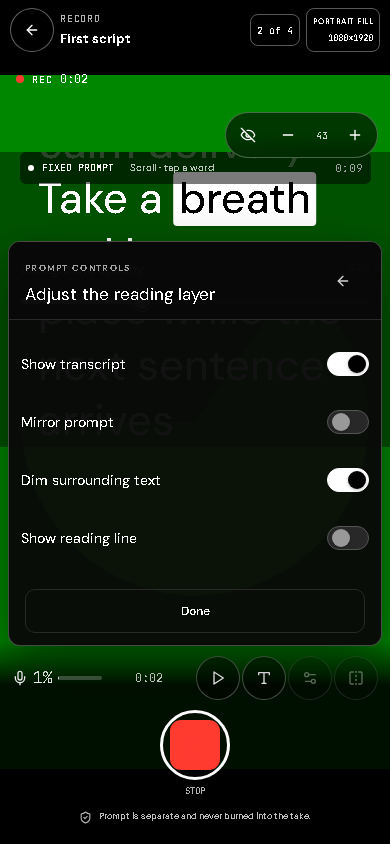
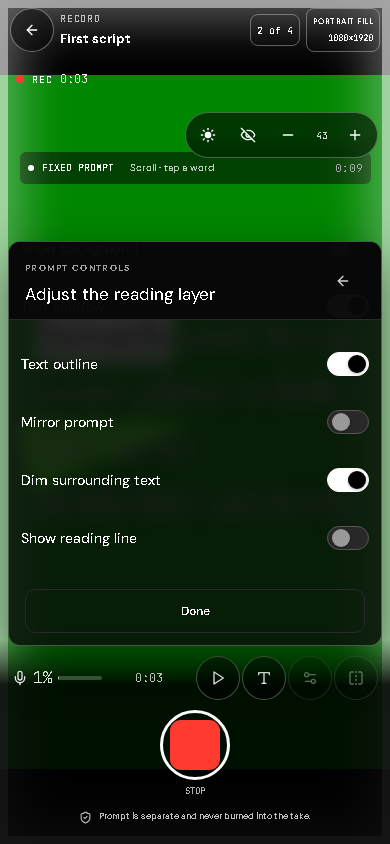
Expand live prompt controls and add selfie screen light

Changed region(s): [[0.0, 0.0, 1.0, 0.8318], [0.0615, 0.3697, 0.4615, 0.4621]]

diff --git a/src/components/teleprompter/PromptSettingsPanel.tsx b/src/components/teleprompter/PromptSettingsPanel.tsx
@@ -16,9 +16,9 @@ export interface PromptSettingsPanelProps {
 type PresetName = 'lens' | 'minimal' | 'large'
 
 const PRESETS: Record<PresetName, Partial<PromptSettings>> = {
-  lens: { fontSize: 38, lineHeight: 1.25, columnWidth: 86, windowHeight: 34, backgroundOpacity: .38, readingLine: 16, textAlign: 'left', showReadingLine: true, dimSurrounding: true },
-  minimal: { fontSize: 34, lineHeight: 1.25, columnWidth: 80, windowHeight: 30, backgroundOpacity: .24, readingLine: 18, textAlign: 'left', showReadingLine: true, dimSurrounding: true },
-  large: { fontSize: 52, lineHeight: 1.22, columnWidth: 92, windowHeight: 42, backgroundOpacity: .5, readingLine: 16, textAlign: 'left', showReadingLine: true, dimSurrounding: false },
+  lens: { fontSize: 38, lineHeight: 1.25, columnWidth: 86, windowHeight: 34, verticalPosition: 18, backgroundOpacity: .38, showBackground: true, textShadow: true, textOutline: false, readingLine: 16, textAlign: 'left', showReadingLine: true, dimSurrounding: true },
+  minimal: { fontSize: 34, lineHeight: 1.25, columnWidth: 80, windowHeight: 30, verticalPosition: 15, backgroundOpacity: .18, showBackground: false, textShadow: true, textOutline: false, readingLine: 18, textAlign: 'left', showReadingLine: true, dimSurrounding: true },
+  large: { fontSize: 56, lineHeight: 1.18, columnWidth: 92, windowHeight: 44, verticalPosition: 20, backgroundOpacity: .5, showBackground: true, textShadow: true, textOutline: false, readingLine: 16, textAlign: 'left', showReadingLine: true, dimSurrounding: false },
 }
 
 function presetFor(settings: PromptSettings): PresetName | '' {
@@ -31,20 +31,23 @@ function presetFor(settings: PromptSettings): PresetName | '' {
 
 function PromptControlsFields({ settings, onChange, compact }: { settings: PromptSettings; onChange: (patch: Partial<PromptSettings>) => void; compact: boolean }) {
   const fileRef = useRef<HTMLInputElement>(null)
+  const verticalPreset = settings.verticalPosition === 8 ? 'top' : settings.verticalPosition === 18 ? 'lens' : settings.verticalPosition === 34 ? 'middle' : settings.verticalPosition === 48 ? 'low' : ''
   return <>
     <div className="tp-prompt-control-grid">
       <div className="tp-prompt-font-field"><NativeSelect label="Font" value={settings.fontFamily} onChange={(event) => onChange({ fontFamily: event.target.value })}>
-        <option>DM Sans Variable</option><option>Barlow Condensed</option><option>JetBrains Mono Variable</option><option>Arial</option><option>Georgia</option><option>system-ui</option>{settings.fontFamily.startsWith('Creator Local ·') && <option>{settings.fontFamily}</option>}
+        <option>DM Sans Variable</option><option>Barlow Condensed</option><option>JetBrains Mono Variable</option><option>system-ui</option><option>Arial</option><option>Arial Black</option><option>Helvetica Neue</option><option>Avenir Next</option><option>Verdana</option><option>Trebuchet MS</option><option>Georgia</option><option>Times New Roman</option><option>Courier New</option><option>Impact</option>{settings.fontFamily.startsWith('Creator Local ·') && <option>{settings.fontFamily}</option>}
       </NativeSelect><Button variant="link" size="small" className="tp-font-upload-button" onClick={() => fileRef.current?.click()}>Load a font from this device</Button><input ref={fileRef} className="sr-only" type="file" accept=".woff,.woff2,.ttf,.otf,font/woff,font/woff2,font/ttf,font/otf" onChange={(event) => { const file = event.target.files?.[0]; event.target.value = ''; if (file) void installLocalFont(file).then((family) => onChange({ fontFamily: family })) }}/></div>
       <Slider label="Prompt window" value={settings.windowHeight ?? 34} min={20} max={65} step={1} display={`${settings.windowHeight ?? 34}% viewport`} onChange={(windowHeight) => onChange({ windowHeight })}/>
+      <Slider label="Vertical position" value={settings.verticalPosition ?? 18} min={8} max={58} step={1} display={`${settings.verticalPosition ?? 18}% from top`} onChange={(verticalPosition) => onChange({ verticalPosition })}/>
       <Slider label="Column width" value={settings.columnWidth} min={50} max={100} step={1} display={`${settings.columnWidth}%`} onChange={(columnWidth) => onChange({ columnWidth })}/>
       <Slider label="Horizontal position" value={settings.horizontalPosition ?? .5} min={0} max={1} step={.05} display={`${Math.round((settings.horizontalPosition ?? .5) * 100)}%`} onChange={(horizontalPosition) => onChange({ horizontalPosition })}/>
       <Slider label="Line height" value={settings.lineHeight} min={1.1} max={2} step={.05} display={settings.lineHeight.toFixed(2)} onChange={(lineHeight) => onChange({ lineHeight })}/>
       <Slider label="Letter spacing" value={settings.letterSpacing} min={-1} max={6} step={.1} display={`${settings.letterSpacing.toFixed(1)} px`} onChange={(letterSpacing) => onChange({ letterSpacing })}/>
     </div>
     <div className="tp-prompt-align-row"><span className="tp-control-label">Text alignment</span><Segmented label="Text alignment" value={settings.textAlign ?? 'left'} items={[{ value: 'left', label: 'Left' }, { value: 'center', label: 'Center' }]} onChange={(textAlign) => onChange({ textAlign })}/></div>
-    <div className="tp-prompt-colour-grid"><label className="tp-color-field"><span>Text colour</span><input type="color" value={settings.textColor} onChange={(event) => onChange({ textColor: event.target.value })}/></label><label className="tp-color-field"><span>Prompt background</span><input type="color" value={settings.backgroundColor} onChange={(event) => onChange({ backgroundColor: event.target.value })}/></label><Slider label="Background opacity" value={settings.backgroundOpacity} min={.08} max={1} step={.01} display={`${Math.round(settings.backgroundOpacity * 100)}%`} onChange={(backgroundOpacity) => onChange({ backgroundOpacity })}/></div>
-    <div className="tp-toggle-row tp-prompt-toggles"><Switch label="Show transcript" checked={settings.showPrompt !== false} onChange={(showPrompt) => onChange({ showPrompt })}/><Switch label="Mirror prompt" checked={settings.mirror} onChange={(mirror) => onChange({ mirror })}/><Switch label="Dim surrounding text" checked={settings.dimSurrounding} onChange={(dimSurrounding) => onChange({ dimSurrounding })}/><Switch label="Show reading line" checked={settings.showReadingLine !== false} onChange={(showReadingLine) => onChange({ showReadingLine })}/></div>
+    <div className="tp-prompt-align-row"><span className="tp-control-label">Screen position</span><Segmented label="Screen position" value={verticalPreset} items={[{ value: 'top', label: 'Top' }, { value: 'lens', label: 'Lens' }, { value: 'middle', label: 'Middle' }, { value: 'low', label: 'Low' }]} onChange={(position) => onChange({ verticalPosition: position === 'top' ? 8 : position === 'lens' ? 18 : position === 'middle' ? 34 : 48 })}/></div>
+    <div className="tp-prompt-colour-grid"><label className="tp-color-field"><span>Text colour</span><input type="color" value={settings.textColor} onChange={(event) => onChange({ textColor: event.target.value })}/></label><label className="tp-color-field"><span>Prompt background</span><input type="color" value={settings.backgroundColor} disabled={settings.showBackground === false} onChange={(event) => onChange({ backgroundColor: event.target.value })}/></label><Slider label="Background opacity" value={settings.backgroundOpacity} min={0} max={1} step={.01} display={`${Math.round(settings.backgroundOpacity * 100)}%`} disabled={settings.showBackground === false} onChange={(backgroundOpacity) => onChange({ backgroundOpacity })}/><Slider label="Background blur" value={settings.backgroundBlur ?? 0} min={0} max={24} step={1} display={`${settings.backgroundBlur ?? 0}px`} disabled={settings.showBackground === false} onChange={(backgroundBlur) => onChange({ backgroundBlur })}/></div>
+    <div className="tp-toggle-row tp-prompt-toggles"><Switch label="Show transcript" checked={settings.showPrompt !== false} onChange={(showPrompt) => onChange({ showPrompt })}/><Switch label="Show background" checked={settings.showBackground !== false} onChange={(showBackground) => onChange({ showBackground })}/><Switch label="Text shadow" checked={settings.textShadow !== false} onChange={(textShadow) => onChange({ textShadow })}/><Switch label="Text outline" checked={settings.textOutline === true} onChange={(textOutline) => onChange({ textOutline })}/><Switch label="Mirror prompt" checked={settings.mirror} onChange={(mirror) => onChange({ mirror })}/><Switch label="Dim surrounding text" checked={settings.dimSurrounding} onChange={(dimSurrounding) => onChange({ dimSurrounding })}/><Switch label="Show reading line" checked={settings.showReadingLine !== false} onChange={(showReadingLine) => onChange({ showReadingLine })}/></div>
     {!compact && <details className="tp-advanced"><summary>Additional timing and layout <span className="mono">CUSTOMIZE</span></summary><div className="tp-setting-grid"><Slider label="Side margins" value={settings.margin} min={0} max={24} step={1} display={`${settings.margin}%`} onChange={(margin) => onChange({ margin })}/><Slider label="Left gutter" value={settings.marginLeft ?? settings.margin} min={0} max={24} step={1} display={`${settings.marginLeft ?? settings.margin}%`} onChange={(marginLeft) => onChange({ marginLeft })}/><Slider label="Right gutter" value={settings.marginRight ?? settings.margin} min={0} max={24} step={1} display={`${settings.marginRight ?? settings.margin}%`} onChange={(marginRight) => onChange({ marginRight })}/><Slider label="Comma pause" value={settings.commaPause} min={0} max={.8} step={.02} display={`${settings.commaPause.toFixed(2)}s`} onChange={(commaPause) => onChange({ commaPause })}/><Slider label="Period pause" value={settings.periodPause} min={0} max={1.5} step={.05} display={`${settings.periodPause.toFixed(2)}s`} onChange={(periodPause) => onChange({ periodPause })}/><Slider label="Paragraph pause" value={settings.paragraphPause} min={0} max={2.5} step={.05} display={`${settings.paragraphPause.toFixed(2)}s`} onChange={(paragraphPause) => onChange({ paragraphPause })}/></div><div className="tp-toggle-row"><Switch label="Density-based line timing" checked={settings.lineTiming} onChange={(lineTiming) => onChange({ lineTiming })}/><Switch label="Honour punctuation pauses" checked={settings.punctuation} onChange={(punctuation) => onChange({ punctuation })}/><Switch label="Include cue pauses" checked={settings.autoPause} onChange={(autoPause) => onChange({ autoPause })}/><Switch label="High contrast" checked={settings.highContrast} onChange={(highContrast) => onChange({ highContrast })}/></div></details>}
   </>
 }

diff --git a/src/styles/teleprompter.css b/src/styles/teleprompter.css
@@ -277,7 +277,7 @@
 .tp-reader-compact .tp-reader-head { position: absolute; top: 19%; right: 8%; left: 8%; z-index: 5; min-height: 32px; padding: 0 8px; border: 0; border-radius: 6px; background: rgba(0,0,0,.52); }
 .tp-reader-compact .tp-reading-stage { position: absolute; top: 24%; right: 6%; left: 6%; height: 34%; min-height: 0; border: 0; border-radius: 0; background: transparent; box-shadow: none; }
 .tp-reader-compact .tp-reading-stage::before { display: none; }
-.tp-reader-compact .tp-script-column { width: calc(100% - 24px); margin: 0 12px; font-size: clamp(28px, var(--tp-size, 38px), 84px); line-height: max(1.25, var(--tp-line, 1.35)); }
+.tp-reader-compact .tp-script-column { width: calc(100% - 24px); margin: 0 12px; font-size: clamp(20px, var(--tp-size, 38px), 112px); line-height: max(1.25, var(--tp-line, 1.35)); }
 .tp-reader-compact .tp-anchor-spacer { height: 28%; min-height: 35px; }
 .tp-reader-compact .tp-anchor-bottom { height: 28%; min-height: 35px; }
 .tp-reader-compact .tp-reader-controls { position: absolute; right: 7%; bottom: 118px; left: 7%; z-index: 5; padding: 8px; border: 0; border-radius: 9px; background: rgba(0,0,0,.7); }
@@ -371,7 +371,7 @@
   .tp-flow-actions .button-primary { min-width: 0; }
   .tp-record-reader-overlay .tp-reader-compact .tp-reader-head { top: 18%; }
   .tp-reader-compact .tp-reading-stage { top: 23%; right: 5%; left: 5%; height: 35%; }
-  .tp-reader-compact .tp-script-column { font-size: clamp(28px, var(--tp-size, 38px), 84px); line-height: max(1.25, var(--tp-line, 1.35)); }
+  .tp-reader-compact .tp-script-column { font-size: clamp(20px, var(--tp-size, 38px), 112px); line-height: max(1.25, var(--tp-line, 1.35)); }
   .tp-reader-compact .tp-reader-controls { right: 5%; bottom: 116px; left: 5%; }
   .tp-history-drawer { width: 100%; }
   .tp-takes-head { padding: 18px 16px; }
@@ -427,7 +427,7 @@
   .tp-settings-panel { padding-right: 14px; padding-left: 14px; }
   .tp-flow-actions { gap: 8px; }
   .tp-flow-actions .button { padding-right: 11px; padding-left: 11px; font-size: 11px; }
-  .tp-reader-compact .tp-script-column { font-size: clamp(28px, var(--tp-size, 38px), 84px); line-height: max(1.25, var(--tp-line, 1.35)); }
+  .tp-reader-compact .tp-script-column { font-size: clamp(20px, var(--tp-size, 38px), 112px); line-height: max(1.25, var(--tp-line, 1.35)); }
 }
 
 @media (max-width: 820px) and (orientation: landscape) {
@@ -438,7 +438,7 @@
   .tp-script-panel .origin-textarea { min-height: 170px; }
   .tp-record-reader-overlay .tp-reader-compact .tp-reading-stage { top: 16%; right: 24%; left: 24%; height: 42%; }
   .tp-record-reader-overlay .tp-reader-compact .tp-reader-head { top: 10%; right: 24%; left: 24%; }
-  .tp-reader-compact .tp-script-column { font-size: clamp(28px, var(--tp-size, 38px), 84px); line-height: max(1.25, var(--tp-line, 1.35)); }
+  .tp-reader-compact .tp-script-column { font-size: clamp(20px, var(--tp-size, 38px), 112px); line-height: max(1.25, var(--tp-line, 1.35)); }
   .tp-reader-compact .tp-reader-controls { right: 25%; bottom: 82px; left: 25%; }
   .tp-record-bottom-bar { padding-top: 9px !important; padding-bottom: max(9px, env(safe-area-inset-bottom)) !important; gap: 6px !important; }
   .tp-record-bottom-meta { min-height: 30px; }
@@ -467,6 +467,7 @@
 .tp-camera-canvas { position: absolute; inset: 0; z-index: 1; display: block; width: 100%; height: 100%; object-fit: contain; background: #000; }
 .tp-camera-canvas.is-front-mirrored { transform: scaleX(-1); }
 .tp-record-surface-scrim { z-index: 2; background: linear-gradient(180deg, rgba(0,0,0,.68), transparent 22%, transparent 68%, rgba(0,0,0,.82)); pointer-events: none; }
+.tp-screen-light { --tp-screen-light-color: 255,255,255; --tp-screen-light-strength: .72; position: absolute; inset: 0; z-index: 4; opacity: var(--tp-screen-light-strength); pointer-events: none; box-shadow: inset 0 0 0 8px rgba(var(--tp-screen-light-color),.78), inset 0 0 54px 16px rgba(var(--tp-screen-light-color),.56); }
 .tp-record-topbar { position: absolute; top: 0; right: 0; left: 0; z-index: 6; display: flex; align-items: center; gap: 10px; padding: max(8px, env(safe-area-inset-top)) 16px 8px; color: #fff; }
 .tp-record-top-back { width: 44px; height: 44px; border: 1px solid rgba(255,255,255,.38); border-radius: 50%; background: rgba(0,0,0,.48); color: #fff; }
 .tp-record-title-block { display: grid; min-width: 0; flex: 1; gap: 3px; }
@@ -512,7 +513,7 @@
 .tp-record-layer-note { display: flex; align-items: center; justify-content: center; gap: 7px; min-height: 18px; color: rgba(255,255,255,.75); font-size: 10px; }
 .tp-recovery-action { display: flex; justify-content: center; }
 
-.tp-prompt-sheet { position: absolute; right: 12px; bottom: max(196px, calc(178px + env(safe-area-inset-bottom))); left: 12px; z-index: 12; max-height: 48dvh; overflow: auto; overscroll-behavior: contain; border: 1px solid rgba(255,255,255,.26); border-radius: 12px; background: rgba(8,8,8,.96); box-shadow: 0 18px 50px rgba(0,0,0,.48); }
+.tp-prompt-sheet { position: absolute; right: 12px; bottom: max(196px, calc(178px + env(safe-area-inset-bottom))); left: 12px; z-index: 12; max-height: 48dvh; overflow: auto; overscroll-behavior: contain; border: 1px solid rgba(255,255,255,.26); border-radius: 12px; background: rgba(8,8,8,.84); box-shadow: 0 18px 50px rgba(0,0,0,.48); backdrop-filter: blur(9px); }
 .tp-prompt-sheet-head { position: sticky; top: 0; z-index: 2; display: flex; align-items: center; justify-content: space-between; gap: 12px; padding: 12px 16px; border-bottom: 1px solid rgba(255,255,255,.14); background: rgba(8,8,8,.98); }
 .tp-prompt-sheet-head h2 { margin-top: 4px; font-size: 17px; }
 .tp-prompt-sheet-head .button-icon { width: 44px; min-height: 44px; }
@@ -540,10 +541,10 @@
 .tp-prompt-sheet .tp-advanced { margin-top: 8px; }
 .tp-prompt-sheet-done { position: sticky; right: 16px; bottom: 8px; left: 16px; width: calc(100% - 32px); margin: 8px 16px 12px; }
 
-.tp-record-reader-overlay .tp-reader-compact .tp-reading-stage { top: calc(18dvh + env(safe-area-inset-top)); right: 0; left: 0; height: var(--tp-window-height, 34dvh); min-height: 0; border: 0; border-radius: 0; background: transparent; box-shadow: none; }
+.tp-record-reader-overlay .tp-reader-compact .tp-reading-stage { top: calc(var(--tp-window-top, 18dvh) + env(safe-area-inset-top)); right: 0; left: 0; height: var(--tp-window-height, 34dvh); min-height: 0; border: 0; border-radius: 0; box-shadow: none; }
 .tp-record-reader-overlay .tp-reader-compact .tp-reading-stage { pointer-events: auto; touch-action: pan-y; }
 .tp-reader-compact .tp-script-scroll { overflow: hidden auto; overscroll-behavior: contain; -webkit-overflow-scrolling: touch; touch-action: pan-y; scrollbar-width: thin; }
-.tp-record-reader-overlay .tp-reader-compact .tp-script-column { width: var(--tp-column, 86%); margin-left: var(--tp-margin-left, 7%); margin-right: var(--tp-margin-right, 7%); padding: 5px 8px; border-radius: 8px; background: transparent; text-align: var(--tp-align, left); transform: translateX(var(--tp-offset, 0)) scaleX(var(--tp-mirror, 1)); transform-origin: center; font-size: clamp(28px, var(--tp-size, 38px), 84px); line-height: max(1.25, var(--tp-line, 1.25)); }
+.tp-record-reader-overlay .tp-reader-compact .tp-script-column { width: var(--tp-column, 86%); margin-left: var(--tp-margin-left, 7%); margin-right: var(--tp-margin-right, 7%); padding: 5px 8px; border-radius: 8px; background: transparent; text-align: var(--tp-align, left); transform: translateX(var(--tp-offset, 0)) scaleX(var(--tp-mirror, 1)); transform-origin: center; font-size: clamp(20px, var(--tp-size, 38px), 112px); line-height: max(1.25, var(--tp-line, 1.25)); }
 .tp-record-reader-overlay .tp-reader-compact .tp-token { pointer-events: auto; }
 .tp-reader-compact .tp-token.tp-active-line { color: #fff; text-decoration: none; }
 .tp-reader-compact .tp-token.tp-current { padding: 0 .12em; border-radius: 4px; background: #fff; color: #000; }
@@ -562,7 +563,7 @@
   .tp-prompt-align-row { grid-template-columns: 1fr; gap: 4px; }
   .tp-prompt-align-row .segmented { width: 100%; }
   .tp-prompt-colour-grid { gap: 0 12px; }
-  .tp-reader-compact .tp-script-column { font-size: clamp(28px, var(--tp-size, 38px), 84px); line-height: max(1.25, var(--tp-line, 1.25)); }
+  .tp-reader-compact .tp-script-column { font-size: clamp(20px, var(--tp-size, 38px), 112px); line-height: max(1.25, var(--tp-line, 1.25)); }
 }
 
 @media (max-width: 480px) {
@@ -586,16 +587,16 @@
   .tp-prompt-control-grid { grid-template-columns: 1fr; }
   .tp-prompt-colour-grid { grid-template-columns: 1fr 1fr; }
   .tp-prompt-toggles { grid-template-columns: 1fr; }
-  .tp-reader-compact .tp-reading-stage { top: calc(18dvh + env(safe-area-inset-top)); height: var(--tp-window-height, 34dvh); }
-  .tp-reader-compact .tp-script-column { font-size: clamp(28px, var(--tp-size, 38px), 84px); line-height: max(1.25, var(--tp-line, 1.25)); }
+  .tp-reader-compact .tp-reading-stage { top: calc(var(--tp-window-top, 18dvh) + env(safe-area-inset-top)); height: var(--tp-window-height, 34dvh); }
+  .tp-reader-compact .tp-script-column { font-size: clamp(20px, var(--tp-size, 38px), 112px); line-height: max(1.25, var(--tp-line, 1.25)); }
 }
 
 @media (max-width: 820px) and (orientation: landscape) {
   .tp-record-topbar { padding-top: max(5px, env(safe-area-inset-top)); padding-bottom: 5px; }
   .tp-record-title-block strong { max-width: 180px; }
   .tp-prompt-sheet { right: 18%; bottom: 116px; left: 18%; max-height: 48dvh; }
-  .tp-reader-compact .tp-reading-stage { top: 15dvh; height: var(--tp-window-height, 34dvh); }
-  .tp-reader-compact .tp-script-column { font-size: clamp(28px, var(--tp-size, 38px), 84px); }
+  .tp-reader-compact .tp-reading-stage { top: var(--tp-window-top, 15dvh); height: var(--tp-window-height, 34dvh); }
+  .tp-reader-compact .tp-script-column { font-size: clamp(20px, var(--tp-size, 38px), 112px); }
   .tp-record-bottom-bar { gap: 5px; padding-top: 6px; padding-bottom: max(6px, env(safe-area-inset-bottom)); }
   .tp-record-shutter { width: 58px; height: 58px; }
 }

diff --git a/src/components/teleprompter/RecordPanel.tsx b/src/components/teleprompter/RecordPanel.tsx
@@ -1,5 +1,5 @@
-import { useEffect, useMemo, useRef, useState, type ReactNode } from 'react'
-import { ArrowLeft, Camera, Eye, EyeOff, FlipHorizontal, LockKeyhole, Mic, Minus, Pause, Play, Plus, RefreshCw, Settings2, ShieldCheck, Square, Type, Video, Volume2, Zap } from 'lucide-react'
+import { useEffect, useMemo, useRef, useState, type CSSProperties, type ReactNode } from 'react'
+import { ArrowLeft, Camera, Eye, EyeOff, FlipHorizontal, LockKeyhole, Mic, Minus, Pause, Play, Plus, RefreshCw, Settings2, ShieldCheck, Square, Sun, Type, Video, Volume2, Zap } from 'lucide-react'
 import type { CaptureSettings, PromptSettings, RecorderSnapshot, ScriptDocument, TakeRecord } from '../../types/recording'
 import { drawCaptureFrame, measureDrawnFrame, previewTransform, type DrawnFrameDimensions } from '../../features/recording/capture'
 import { Alert, Badge, BottomSheet, Button, IconButton, NativeSelect, Slider, Switch } from '../ui/primitives'
@@ -81,6 +81,7 @@ export function RecordPanel({ snapshot, settings, script, reader, onBack, onSett
   const resolution = useMemo(() => formatResolution(settings), [settings])
   const framingMode = settings.framingMode ?? 'fill'
   const rotation = settings.rotation ?? 'auto'
+  const screenLightColor = settings.screenLightTone === 'warm' ? '255, 221, 178' : settings.screenLightTone === 'cool' ? '214, 235, 255' : '255, 255, 255'
 
   useEffect(() => {
     const video = videoRef.current
@@ -173,6 +174,7 @@ export function RecordPanel({ snapshot, settings, script, reader, onBack, onSett
       {snapshot.stream ? <><video ref={videoRef} muted playsInline autoPlay onLoadedMetadata={(event) => setVideoSize({ width: event.currentTarget.videoWidth, height: event.currentTarget.videoHeight })} className="tp-camera-video tp-preview-source" aria-label="Camera preview"/><canvas ref={canvasRef} className={`tp-camera-canvas ${settings.facingMode === 'user' ? 'is-front-mirrored' : ''}`} aria-label="Camera preview image"/></> : <div className="tp-no-camera" style={{ position: 'absolute', inset: 0, display: 'grid', placeContent: 'center', justifyItems: 'center', gap: 14, padding: 24, color: '#fff', textAlign: 'center' }}><Camera size={34}/><strong>{isOpening ? 'Opening camera…' : 'Camera preview unavailable'}</strong><span>Allow camera and microphone access to record a take.</span><Button variant="outline" onClick={onOpen} disabled={isOpening}>{isOpening ? 'Opening inputs…' : 'Open camera & mic'}</Button></div>}
     </div>
     <div className="tp-record-surface-scrim" aria-hidden="true"/>
+    {settings.screenLight && settings.facingMode === 'user' && <div className="tp-screen-light" aria-hidden="true" style={{ '--tp-screen-light-color': screenLightColor, '--tp-screen-light-strength': settings.screenLightIntensity ?? .72 } as CSSProperties}/>}
 
     <header className="tp-record-topbar">
       <IconButton className="tp-record-top-back" label="Back to script" onClick={onBack} disabled={!onBack || isSaving}><ArrowLeft size={20}/></IconButton>
@@ -183,11 +185,12 @@ export function RecordPanel({ snapshot, settings, script, reader, onBack, onSett
     </header>
 
     {reader && <div className="tp-record-reader-overlay" style={{ position: 'absolute', inset: 0, zIndex: 2, pointerEvents: 'none' }}>{reader}</div>}
-    <div className="tp-record-prompt-tools" role="group" aria-label="Transcript display controls">
+    <div className="tp-record-prompt-tools" role="group" aria-label="On-screen recording controls">
+      <IconButton label={settings.screenLight ? 'Turn screen light off' : 'Turn screen light on'} onClick={() => onSettingsChange({ screenLight: !settings.screenLight })}><Sun size={18} fill={settings.screenLight ? 'currentColor' : 'none'}/></IconButton>
       <IconButton label={script.settings.showPrompt === false ? 'Show transcript' : 'Hide transcript'} onClick={() => onPromptSettingsChange({ showPrompt: script.settings.showPrompt === false })}>{script.settings.showPrompt === false ? <Eye size={18}/> : <EyeOff size={18}/>}</IconButton>
-      <IconButton label="Make transcript smaller" onClick={() => onPromptSettingsChange({ fontSize: Math.max(28, script.settings.fontSize - 4) })} disabled={script.settings.fontSize <= 28}><Minus size={17}/></IconButton>
+      <IconButton label="Make transcript smaller" onClick={() => onPromptSettingsChange({ fontSize: Math.max(20, script.settings.fontSize - 4) })} disabled={script.settings.fontSize <= 20}><Minus size={17}/></IconButton>
       <span className="mono" aria-live="polite">{script.settings.fontSize}</span>
-      <IconButton label="Make transcript larger" onClick={() => onPromptSettingsChange({ fontSize: Math.min(84, script.settings.fontSize + 4) })} disabled={script.settings.fontSize >= 84}><Plus size={17}/></IconButton>
+      <IconButton label="Make transcript larger" onClick={() => onPromptSettingsChange({ fontSize: Math.min(112, script.settings.fontSize + 4) })} disabled={script.settings.fontSize >= 112}><Plus size={17}/></IconButton>
     </div>
     <div className="tp-record-status" role="status" aria-live="polite"><span className={`tp-record-state-dot ${isRecording ? 'is-recording' : ''} ${isSaving ? 'is-saving' : ''}`} aria-hidden="true"/><span className="mono">{isRecording ? 'REC' : isSaving ? 'SAVING…' : isFailure ? 'RECOVERY' : unavailable ? 'READY TO OPEN' : 'READY'}</span>{isRecording && <span className="mono">{elapsedLabel(elapsed)}</span>}</div>
     {snapshot.error && <div className="tp-record-alert"><Alert title="Recording needs attention" variant="destructive">{snapshot.error}</Alert></div>}
@@ -227,6 +230,9 @@ export function RecordPanel({ snapshot, settings, script, reader, onBack, onSett
         </div>
         <p className="origin-field-help">Portrait fill preserves the phone camera’s full view, detects its displayed orientation, and writes an upright 9:16 recording without asking the browser to pre-crop it.</p>
         <Switch label="Monitor audio" description="Send a quiet feed to headphones." checked={settings.monitorAudio} disabled={cameraControlsDisabled} onChange={(monitorAudio) => onSettingsChange({ monitorAudio })}/>
+        <Switch label="Screen selfie light" description="Use the display border to light your face. It is never added to the video." checked={settings.screenLight} onChange={(screenLight) => onSettingsChange({ screenLight })}/>
+        <Slider label="Screen light brightness" value={settings.screenLightIntensity ?? .72} min={.2} max={1} step={.02} display={`${Math.round((settings.screenLightIntensity ?? .72) * 100)}%`} disabled={!settings.screenLight} onChange={(screenLightIntensity) => onSettingsChange({ screenLightIntensity })}/>
+        <NativeSelect label="Screen light tone" value={settings.screenLightTone ?? 'neutral'} disabled={!settings.screenLight} onChange={(event) => onSettingsChange({ screenLightTone: event.target.value as CaptureSettings['screenLightTone'] })}><option value="neutral">Neutral white</option><option value="warm">Warm</option><option value="cool">Cool</option></NativeSelect>
         <div className="tp-preflight-mic"><Button variant="outline" size="small" onClick={testMic} disabled={unavailable || cameraControlsDisabled || actionBusy}>{micTesting ? 'Listening…' : 'Test microphone'}</Button><span aria-hidden="true"><i style={{ width: `${Math.round(snapshot.level * 100)}%` }}/></span><Volume2 size={15}/></div>
         <details className="tp-preflight-advanced"><summary><RefreshCw size={14}/> Supported camera controls</summary><HardwareControls capabilities={snapshot.capabilities} settings={settings} onSettingsChange={onSettingsChange} disabled={cameraControlsDisabled}/></details>
         <Button variant="ghost" onClick={onRequestStorage} disabled={isSaving}><LockKeyhole size={15}/> Request persistent storage</Button>

diff --git a/teleprompter-e2e/phone-flow-navigation.spec.ts b/teleprompter-e2e/phone-flow-navigation.spec.ts
@@ -71,6 +71,11 @@ test.describe('phone first Script to Record to Review flow', () => {
     await promptWords.first().scrollIntoViewIfNeeded();
     await promptWords.first().click();
     await expect(promptWords.first()).toHaveAttribute('aria-current', 'true');
+    await expect(page.locator('.tp-screen-light')).toBeVisible();
+    await page.getByRole('button', { name: 'Turn screen light off', exact: true }).click();
+    await expect(page.locator('.tp-screen-light')).toHaveCount(0);
+    await page.getByRole('button', { name: 'Turn screen light on', exact: true }).click();
+    await expect(page.locator('.tp-screen-light')).toBeVisible();
     const initialPromptSize = await page.locator('.tp-reader-compact .tp-reading-stage').evaluate((stage) => stage.style.getPropertyValue('--tp-size'));
     await page.getByRole('button', { name: 'Make transcript larger', exact: true }).click();
     await expect.poll(() => page.locator('.tp-reader-compact .tp-reading-stage').evaluate((stage) => stage.style.getPropertyValue('--tp-size'))).not.toBe(initialPromptSize);
@@ -116,10 +121,13 @@ test.describe('phone first Script to Record to Review flow', () => {
     await page.getByRole('button', { name: 'Open prompt controls', exact: true }).click();
     const promptDialog = page.getByRole('dialog', { name: 'Prompt controls', exact: true });
     await expect(promptDialog).toBeVisible();
-    for (const label of ['Speed', 'Text size', 'Reading line', 'Prompt window', 'Column width', 'Horizontal position', 'Line height', 'Background opacity']) await expect(promptDialog.getByRole('slider', { name: label, exact: true })).toBeVisible();
+    for (const label of ['Speed', 'Text size', 'Reading line', 'Prompt window', 'Vertical position', 'Column width', 'Horizontal position', 'Line height', 'Background opacity', 'Background blur']) await expect(promptDialog.getByRole('slider', { name: label, exact: true })).toBeVisible();
     await expect(promptDialog.getByText('Text alignment', { exact: true })).toBeVisible();
     await expect(promptDialog.getByRole('switch', { name: 'Dim surrounding text', exact: true })).toBeVisible();
     await expect(promptDialog.getByRole('switch', { name: 'Show transcript', exact: true })).toBeVisible();
+    await expect(promptDialog.getByRole('switch', { name: 'Show background', exact: true })).toBeVisible();
+    await expect(promptDialog.getByRole('switch', { name: 'Text shadow', exact: true })).toBeVisible();
+    await expect(promptDialog.getByRole('switch', { name: 'Text outline', exact: true })).toBeVisible();
     await expect(promptDialog.getByRole('switch', { name: 'Show reading line', exact: true })).toBeVisible();
     const promptGeometryBefore = await page.evaluate(() => {
       const stage = document.querySelector('.tp-reader-compact .tp-reading-stage') as HTMLElement | null;
@@ -135,6 +143,15 @@ test.describe('phone first Script to Record to Review flow', () => {
     await promptDialog.getByRole('slider', { name: 'Prompt window', exact: true }).press('ArrowRight');
     await promptDialog.getByRole('slider', { name: 'Column width', exact: true }).press('ArrowRight');
     await promptDialog.getByRole('slider', { name: 'Horizontal position', exact: true }).press('ArrowRight');
+    const topBefore = await page.locator('.tp-reader-compact .tp-reading-stage').evaluate((stage) => stage.style.getPropertyValue('--tp-window-top'));
+    await promptDialog.getByRole('button', { name: 'Middle', exact: true }).click();
+    await expect.poll(() => page.locator('.tp-reader-compact .tp-reading-stage').evaluate((stage) => stage.style.getPropertyValue('--tp-window-top'))).not.toBe(topBefore);
+    await promptDialog.getByRole('combobox', { name: 'Font', exact: true }).selectOption({ label: 'Georgia' });
+    await expect.poll(() => page.locator('.tp-reader-compact .tp-reading-stage').evaluate((stage) => getComputedStyle(stage).fontFamily)).toContain('Georgia');
+    await promptDialog.getByRole('switch', { name: 'Show background', exact: true }).click();
+    await expect.poll(() => page.locator('.tp-reader-compact .tp-reading-stage').evaluate((stage) => getComputedStyle(stage).backgroundColor)).toBe('rgba(0, 0, 0, 0)');
+    await promptDialog.getByRole('switch', { name: 'Text outline', exact: true }).click();
+    await expect.poll(() => page.locator('.tp-reader-compact .tp-reading-stage').evaluate((stage) => getComputedStyle(stage).webkitTextStrokeWidth)).toBe('1px');
     await expect.poll(() => page.evaluate(() => {
       const stage = document.querySelector('.tp-reader-compact .tp-reading-stage') as HTMLElement | null;
       const column = document.querySelector('.tp-reader-compact .tp-script-column') as HTMLElement | null;

diff --git a/src/features/recording/defaults.ts b/src/features/recording/defaults.ts
@@ -19,6 +19,7 @@ export const defaultPromptSettings: PromptSettings = {
   marginRight: 7,
   horizontalPosition: 0.5,
   windowHeight: 34,
+  verticalPosition: 18,
   textAlign: 'left',
   showPrompt: true,
   showReadingLine: true,
@@ -26,6 +27,10 @@ export const defaultPromptSettings: PromptSettings = {
   textColor: '#ffffff',
   backgroundColor: '#000000',
   backgroundOpacity: 0.38,
+  showBackground: true,
+  backgroundBlur: 0,
+  textShadow: true,
+  textOutline: false,
   mirror: false,
   highContrast: true,
   dimSurrounding: true,
@@ -47,6 +52,9 @@ export const defaultCaptureSettings: CaptureSettings = {
   fps: 30,
   portrait: true,
   monitorAudio: false,
+  screenLight: true,
+  screenLightIntensity: 0.72,
+  screenLightTone: 'neutral',
   framingMode: 'fill',
   framingVersion: 2,
   rotation: 'auto',
@@ -54,8 +62,10 @@ export const defaultCaptureSettings: CaptureSettings = {
 };
 
 export function clonePromptSettings(settings: PromptSettings = defaultPromptSettings): PromptSettings {
-  const cloned = structuredClone(settings) as PromptSettings & { windowHeight?: unknown; textAlign?: unknown; showPrompt?: unknown; showReadingLine?: unknown };
+  const cloned = structuredClone(settings) as PromptSettings & { windowHeight?: unknown; verticalPosition?: unknown; textAlign?: unknown; showPrompt?: unknown; showReadingLine?: unknown; showBackground?: unknown; backgroundBlur?: unknown; textShadow?: unknown; textOutline?: unknown };
   const rawWindowHeight = typeof cloned.windowHeight === 'number' && Number.isFinite(cloned.windowHeight) ? cloned.windowHeight : defaultPromptSettings.windowHeight;
+  const rawVerticalPosition = typeof cloned.verticalPosition === 'number' && Number.isFinite(cloned.verticalPosition) ? cloned.verticalPosition : defaultPromptSettings.verticalPosition;
+  const rawBackgroundBlur = typeof cloned.backgroundBlur === 'number' && Number.isFinite(cloned.backgroundBlur) ? cloned.backgroundBlur : defaultPromptSettings.backgroundBlur;
   const isLegacyDefault = cloned.fontSize === 48
     && cloned.lineHeight === 1.35
     && cloned.columnWidth === 78
@@ -94,9 +104,14 @@ export function clonePromptSettings(settings: PromptSettings = defaultPromptSett
       backgroundColor: defaultPromptSettings.backgroundColor,
     } : {}),
     windowHeight: isLegacyDefault ? defaultPromptSettings.windowHeight : Math.max(20, Math.min(65, rawWindowHeight)),
+    verticalPosition: Math.max(8, Math.min(58, rawVerticalPosition)),
     textAlign: isLegacyDefault ? defaultPromptSettings.textAlign : cloned.textAlign === 'center' ? 'center' : 'left',
     showPrompt: typeof cloned.showPrompt === 'boolean' ? cloned.showPrompt : defaultPromptSettings.showPrompt,
     showReadingLine: isLegacyDefault ? defaultPromptSettings.showReadingLine : typeof cloned.showReadingLine === 'boolean' ? cloned.showReadingLine : defaultPromptSettings.showReadingLine,
+    showBackground: typeof cloned.showBackground === 'boolean' ? cloned.showBackground : defaultPromptSettings.showBackground,
+    backgroundBlur: Math.max(0, Math.min(24, rawBackgroundBlur)),
+    textShadow: typeof cloned.textShadow === 'boolean' ? cloned.textShadow : defaultPromptSettings.textShadow,
+    textOutline: typeof cloned.textOutline === 'boolean' ? cloned.textOutline : defaultPromptSettings.textOutline,
   };
 }
 
@@ -118,12 +133,19 @@ export function cloneCaptureSettings(settings: CaptureSettings = defaultCaptureS
     ? capture.framingMode === 'fit' ? 'fit' : 'fill'
     : 'fill';
   const rotation = capture.rotation === 0 || capture.rotation === 90 || capture.rotation === 270 ? capture.rotation : 'auto';
+  const screenLightIntensity = typeof capture.screenLightIntensity === 'number' && Number.isFinite(capture.screenLightIntensity)
+    ? Math.max(0.2, Math.min(1, capture.screenLightIntensity))
+    : defaultCaptureSettings.screenLightIntensity;
+  const screenLightTone = capture.screenLightTone === 'cool' || capture.screenLightTone === 'warm' ? capture.screenLightTone : 'neutral';
   return {
     ...defaultCaptureSettings,
     ...capture,
     framingMode,
     framingVersion: 2,
     rotation,
+    screenLight: typeof capture.screenLight === 'boolean' ? capture.screenLight : defaultCaptureSettings.screenLight,
+    screenLightIntensity,
+    screenLightTone,
     controls: { ...defaultCaptureSettings.controls, ...(capture.controls ?? {}) },
   };
 }

diff --git a/src/components/teleprompter/PromptReader.tsx b/src/components/teleprompter/PromptReader.tsx
@@ -153,7 +153,7 @@ export function PromptReader({ script, settings, onCursorChange, compact = false
   const wordsSpoken = parsed.spokenTokens.slice(0, cursor).length
   const modeLabel = settings.mode === 'timed' ? 'TIMED PROMPT' : settings.mode === 'manual' ? 'MANUAL PROMPT' : 'FIXED PROMPT'
   const playLabel = playing ? 'Pause prompt' : settings.mode === 'manual' ? 'Start manual read' : 'Play prompt'
-  const backgroundColor = promptBackground(settings.backgroundColor, settings.backgroundOpacity)
+  const backgroundColor = settings.showBackground === false ? 'transparent' : promptBackground(settings.backgroundColor, settings.backgroundOpacity)
   const readerStyle: CSSProperties = {
     '--tp-text': settings.textColor,
     '--tp-bg': settings.backgroundColor,
@@ -170,12 +170,17 @@ export function PromptReader({ script, settings, onCursorChange, compact = false
     '--tp-reading-line': `${settings.readingLine}%`,
     '--tp-opacity': settings.dimSurrounding ? '.34' : '1',
     '--tp-window-height': `${Math.max(20, Math.min(65, settings.windowHeight ?? 34))}dvh`,
+    '--tp-window-top': `${Math.max(8, Math.min(58, settings.verticalPosition ?? 18))}dvh`,
     '--tp-align': settings.textAlign ?? 'left',
     '--tp-mirror': settings.mirror ? -1 : 1,
     backgroundColor,
     fontFamily: settings.fontFamily,
     textAlign: settings.textAlign ?? 'left',
     fontWeight: settings.bold ? 650 : 450,
+    backdropFilter: settings.showBackground === false || !settings.backgroundBlur ? undefined : `blur(${settings.backgroundBlur}px)`,
+    WebkitBackdropFilter: settings.showBackground === false || !settings.backgroundBlur ? undefined : `blur(${settings.backgroundBlur}px)`,
+    textShadow: settings.textShadow === false ? 'none' : '0 2px 8px rgba(0,0,0,.92), 0 1px 2px rgba(0,0,0,.95)',
+    WebkitTextStroke: settings.textOutline ? '1px rgba(0,0,0,.85)' : undefined,
   } as CSSProperties
 
   return <div className={`tp-reader-wrap ${compact ? 'tp-reader-compact' : ''} ${hideControls ? 'tp-reader-no-controls' : ''} ${compact && settings.showPrompt === false ? 'tp-reader-hidden' : ''}`} aria-hidden={compact && settings.showPrompt === false ? 'true' : undefined}>
@@ -225,7 +230,7 @@ export function PromptReader({ script, settings, onCursorChange, compact = false
 export function PromptQuickControls({ settings, onChange }: { settings: PromptSettings; onChange: (patch: Partial<PromptSettings>) => void }) {
   return <div className="tp-quick-controls">
     <Slider label="Speed" value={settings.wpm} min={50} max={260} step={5} display={`${settings.wpm} WPM`} onChange={(wpm) => onChange({ wpm })}/>
-    <Slider label="Text size" value={settings.fontSize} min={28} max={84} step={1} display={`${settings.fontSize}px`} onChange={(fontSize) => onChange({ fontSize })}/>
+    <Slider label="Text size" value={settings.fontSize} min={20} max={112} step={1} display={`${settings.fontSize}px`} onChange={(fontSize) => onChange({ fontSize })}/>
     <Slider label="Reading line" value={settings.readingLine} min={10} max={65} step={1} display={`${settings.readingLine}%`} onChange={(readingLine) => onChange({ readingLine })}/>
     <Switch label="Bold words" checked={settings.bold} onChange={(bold) => onChange({ bold })}/>
   </div>

diff --git a/src/features/recording/capture.test.ts b/src/features/recording/capture.test.ts
@@ -47,6 +47,9 @@ describe('capture orientation negotiation', () => {
     delete legacyFullView.framingVersion;
     expect(cloneCaptureSettings(legacyFullView).framingMode).toBe('fill');
     expect(cloneCaptureSettings({ ...defaultCaptureSettings, framingMode: 'fit' }).framingMode).toBe('fit');
+    expect(defaultCaptureSettings.screenLight).toBe(true);
+    expect(cloneCaptureSettings({ ...defaultCaptureSettings, screenLightIntensity: 4 }).screenLightIntensity).toBe(1);
+    expect(cloneCaptureSettings({ ...defaultCaptureSettings, screenLightIntensity: 0 }).screenLightIntensity).toBe(.2);
   });
 
   it('persists negotiated source dimensions and orientation metadata', () => {
@@ -85,6 +88,10 @@ describe('capture orientation negotiation', () => {
     expect(custom.backgroundOpacity).toBe(0.92);
     expect(clonePromptSettings({ ...defaultPromptSettings, windowHeight: 99 }).windowHeight).toBe(65);
     expect(clonePromptSettings({ ...defaultPromptSettings, windowHeight: 1 }).windowHeight).toBe(20);
+    expect(clonePromptSettings({ ...defaultPromptSettings, verticalPosition: 99 }).verticalPosition).toBe(58);
+    expect(clonePromptSettings({ ...defaultPromptSettings, verticalPosition: 1 }).verticalPosition).toBe(8);
+    expect(clonePromptSettings({ ...defaultPromptSettings, backgroundBlur: 99 }).backgroundBlur).toBe(24);
+    expect(clonePromptSettings({ ...defaultPromptSettings, showBackground: false }).showBackground).toBe(false);
   });
 
   it('keeps the full landscape source inside a portrait canvas when Full view is selected', () => {

diff --git a/src/types/recording.ts b/src/types/recording.ts
@@ -6,8 +6,9 @@ export interface PromptSettings {
   /** Optional independent gutters/offset for camera-specific reading setups. */
   marginLeft?: number; marginRight?: number; horizontalPosition?: number;
   /** Compact prompt-window and alignment controls used by the recording overlay. */
-  windowHeight: number; textAlign: 'left' | 'center'; showPrompt: boolean; showReadingLine: boolean;
+  windowHeight: number; verticalPosition: number; textAlign: 'left' | 'center'; showPrompt: boolean; showReadingLine: boolean;
   backgroundColor: string; backgroundOpacity: number; mirror: boolean;
+  showBackground: boolean; backgroundBlur: number; textShadow: boolean; textOutline: boolean;
   highContrast: boolean; dimSurrounding: boolean; autoPause: boolean;
   lineTiming: boolean; voiceSensitivity: number; punctuation: boolean;
   commaPause: number; periodPause: number; paragraphPause: number;
@@ -21,6 +22,8 @@ export interface CaptureSettings {
   resolution: 720 | 1080 | 2160; fps: 24 | 25 | 30 | 50 | 60;
   /** Whether the requested/displayed recording orientation is vertical. */
   portrait: boolean; monitorAudio: boolean;
+  /** Screen-powered selfie light; UI-only and never composited into video. */
+  screenLight: boolean; screenLightIntensity: number; screenLightTone: 'cool' | 'neutral' | 'warm';
   /** Fill is the phone-first default; fit remains available when the full sensor view matters. */
   framingMode: 'fit' | 'fill';
   /** Allows stored pre-portrait-default settings to be migrated once. */
